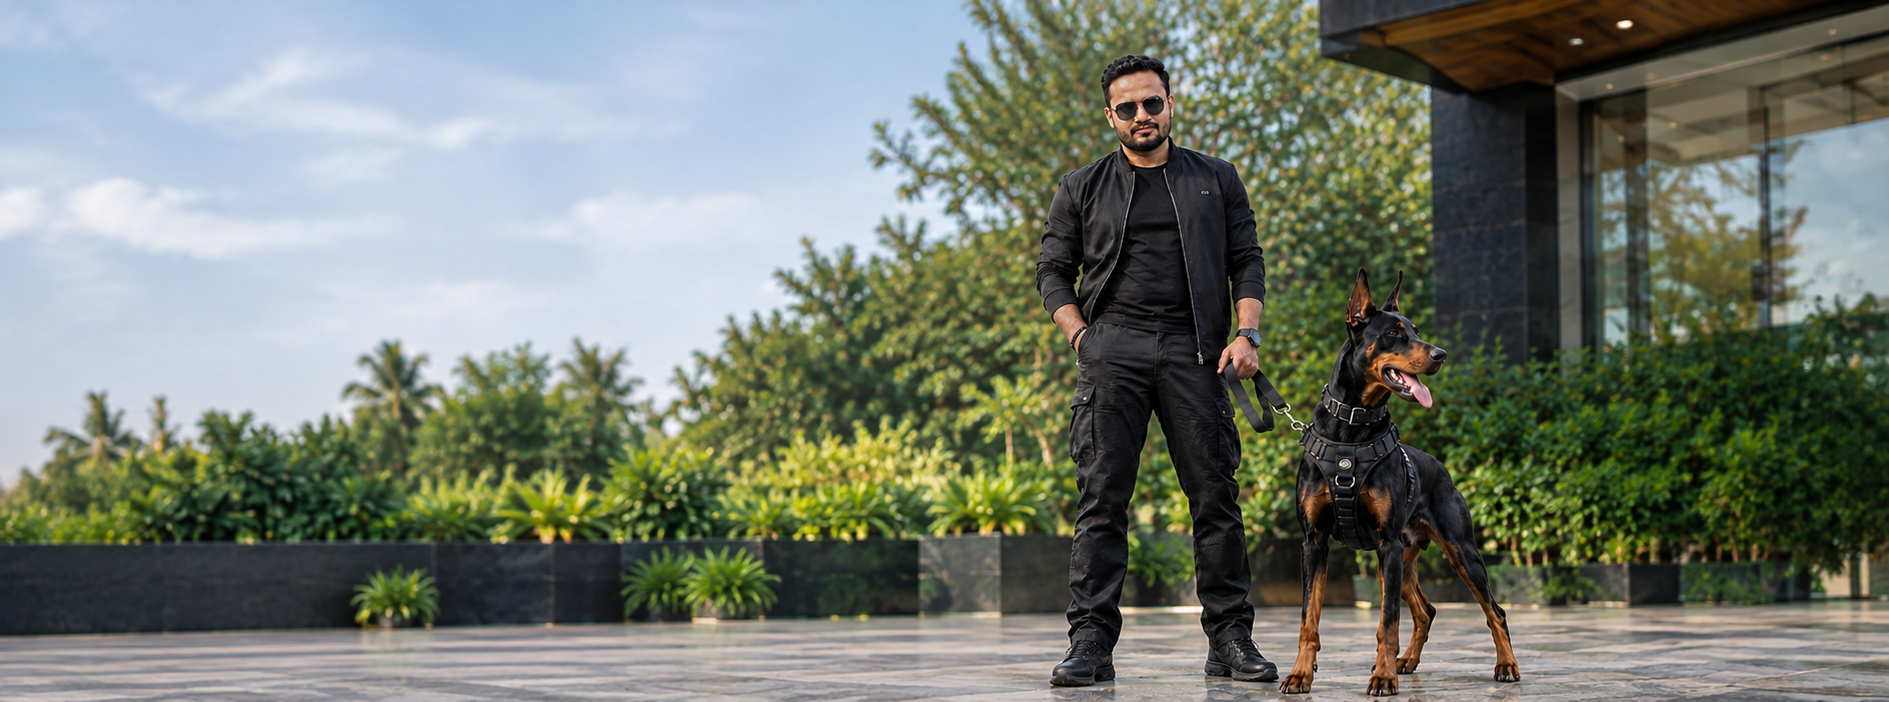
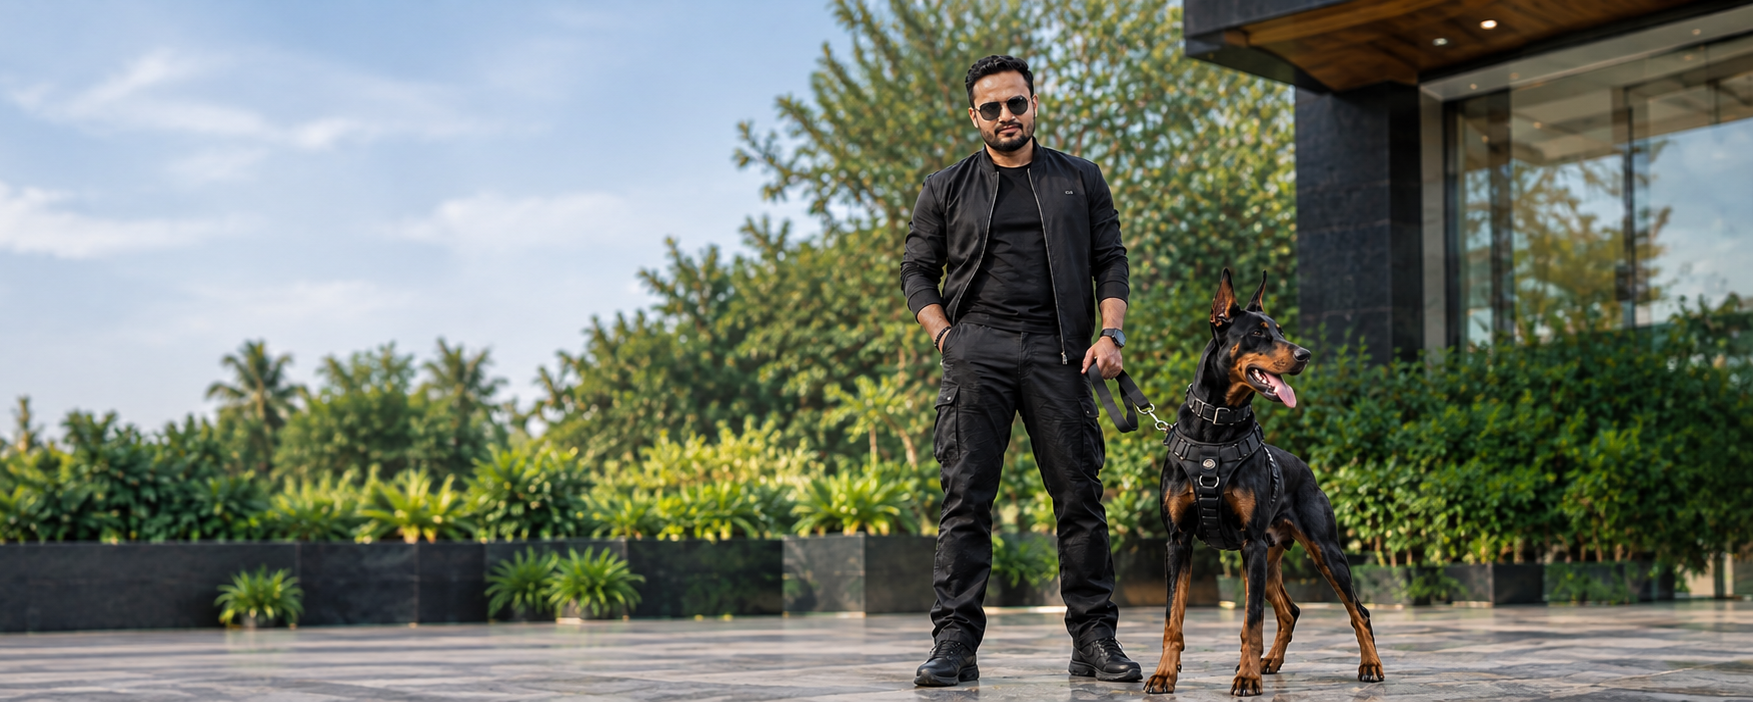
Update hero background asset and scale to 0.92.

diff --git a/src/components/home/Hero.tsx b/src/components/home/Hero.tsx
@@ -10,7 +10,7 @@ export function Hero() {
       id="home"
       className="relative flex min-h-[calc(100svh-var(--site-header-height))] flex-col overflow-hidden bg-brand-charcoal"
     >
-      <div className="absolute inset-0 origin-center scale-[0.95] -translate-y-[20px]">
+      <div className="absolute inset-0 origin-center scale-[0.92] -translate-y-[20px]">
         <Image
           src={heroImage}
           alt="Dog trainer standing with a Doberman"
